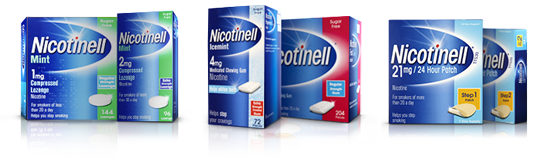
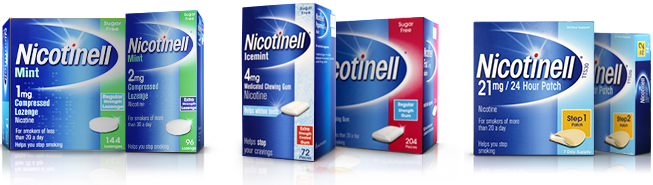
changes to branding images and css

diff --git a/src/main/webapp/static/Nicotinell/jquery.theme.css b/src/main/webapp/static/Nicotinell/jquery.theme.css
@@ -837,8 +837,6 @@ html body .ui-group-theme-a .ui-checkbox-on:after,
 @media all and (min-width: 50em){
 	.dotter-image.dotter-retailer {
 		background-image: url("images/secondary-branding.png") !important;
-		background-size: 100% !important;
-		top: 20% !important;
 	}
 }
 
@@ -878,11 +876,11 @@ html body .ui-group-theme-a .ui-checkbox-on:after,
 .dotter-image.dotter-retailer {
 	position: absolute;
 	left: 0px;
-	right: 50%;
-	top: 0%;
+	right: 0px;
+	top: 0px;
 	bottom: 0px;
 	background-image: url("images/secondary-branding-sml.png");
-	background-size: 72%;
+	background-size: 100%;
 	background-position: left;
 	background-repeat: no-repeat;
 }
